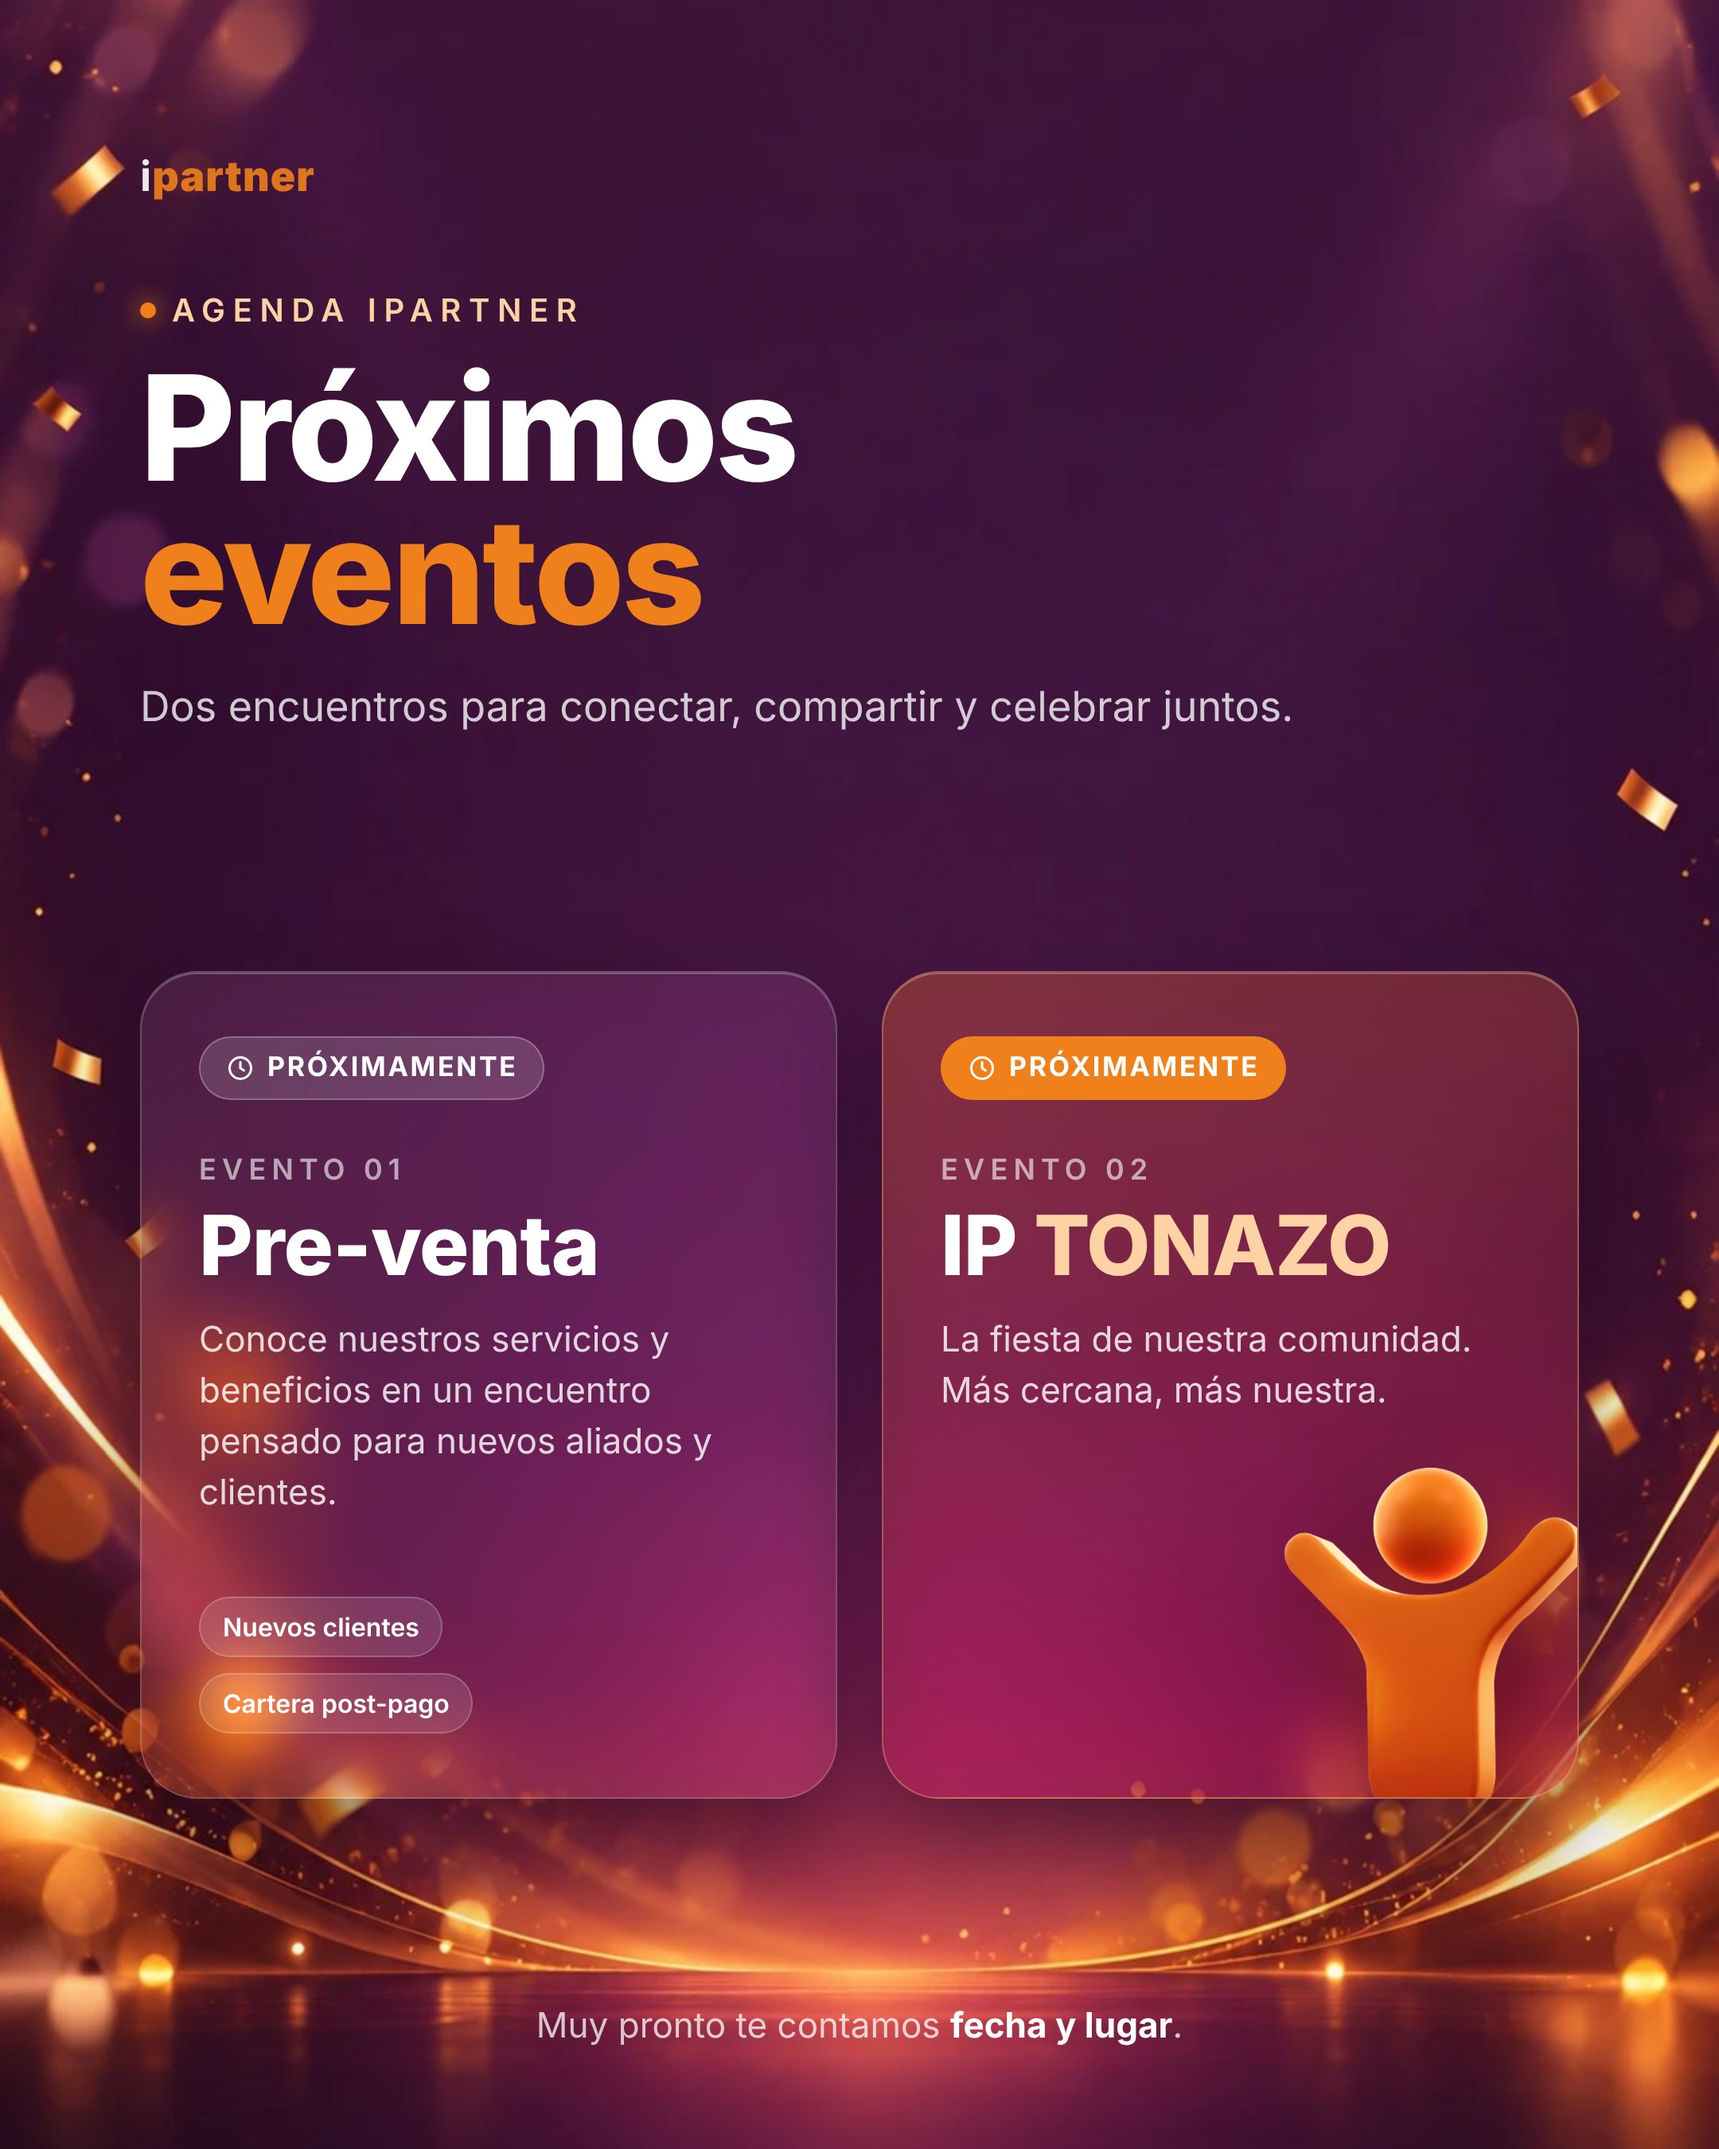
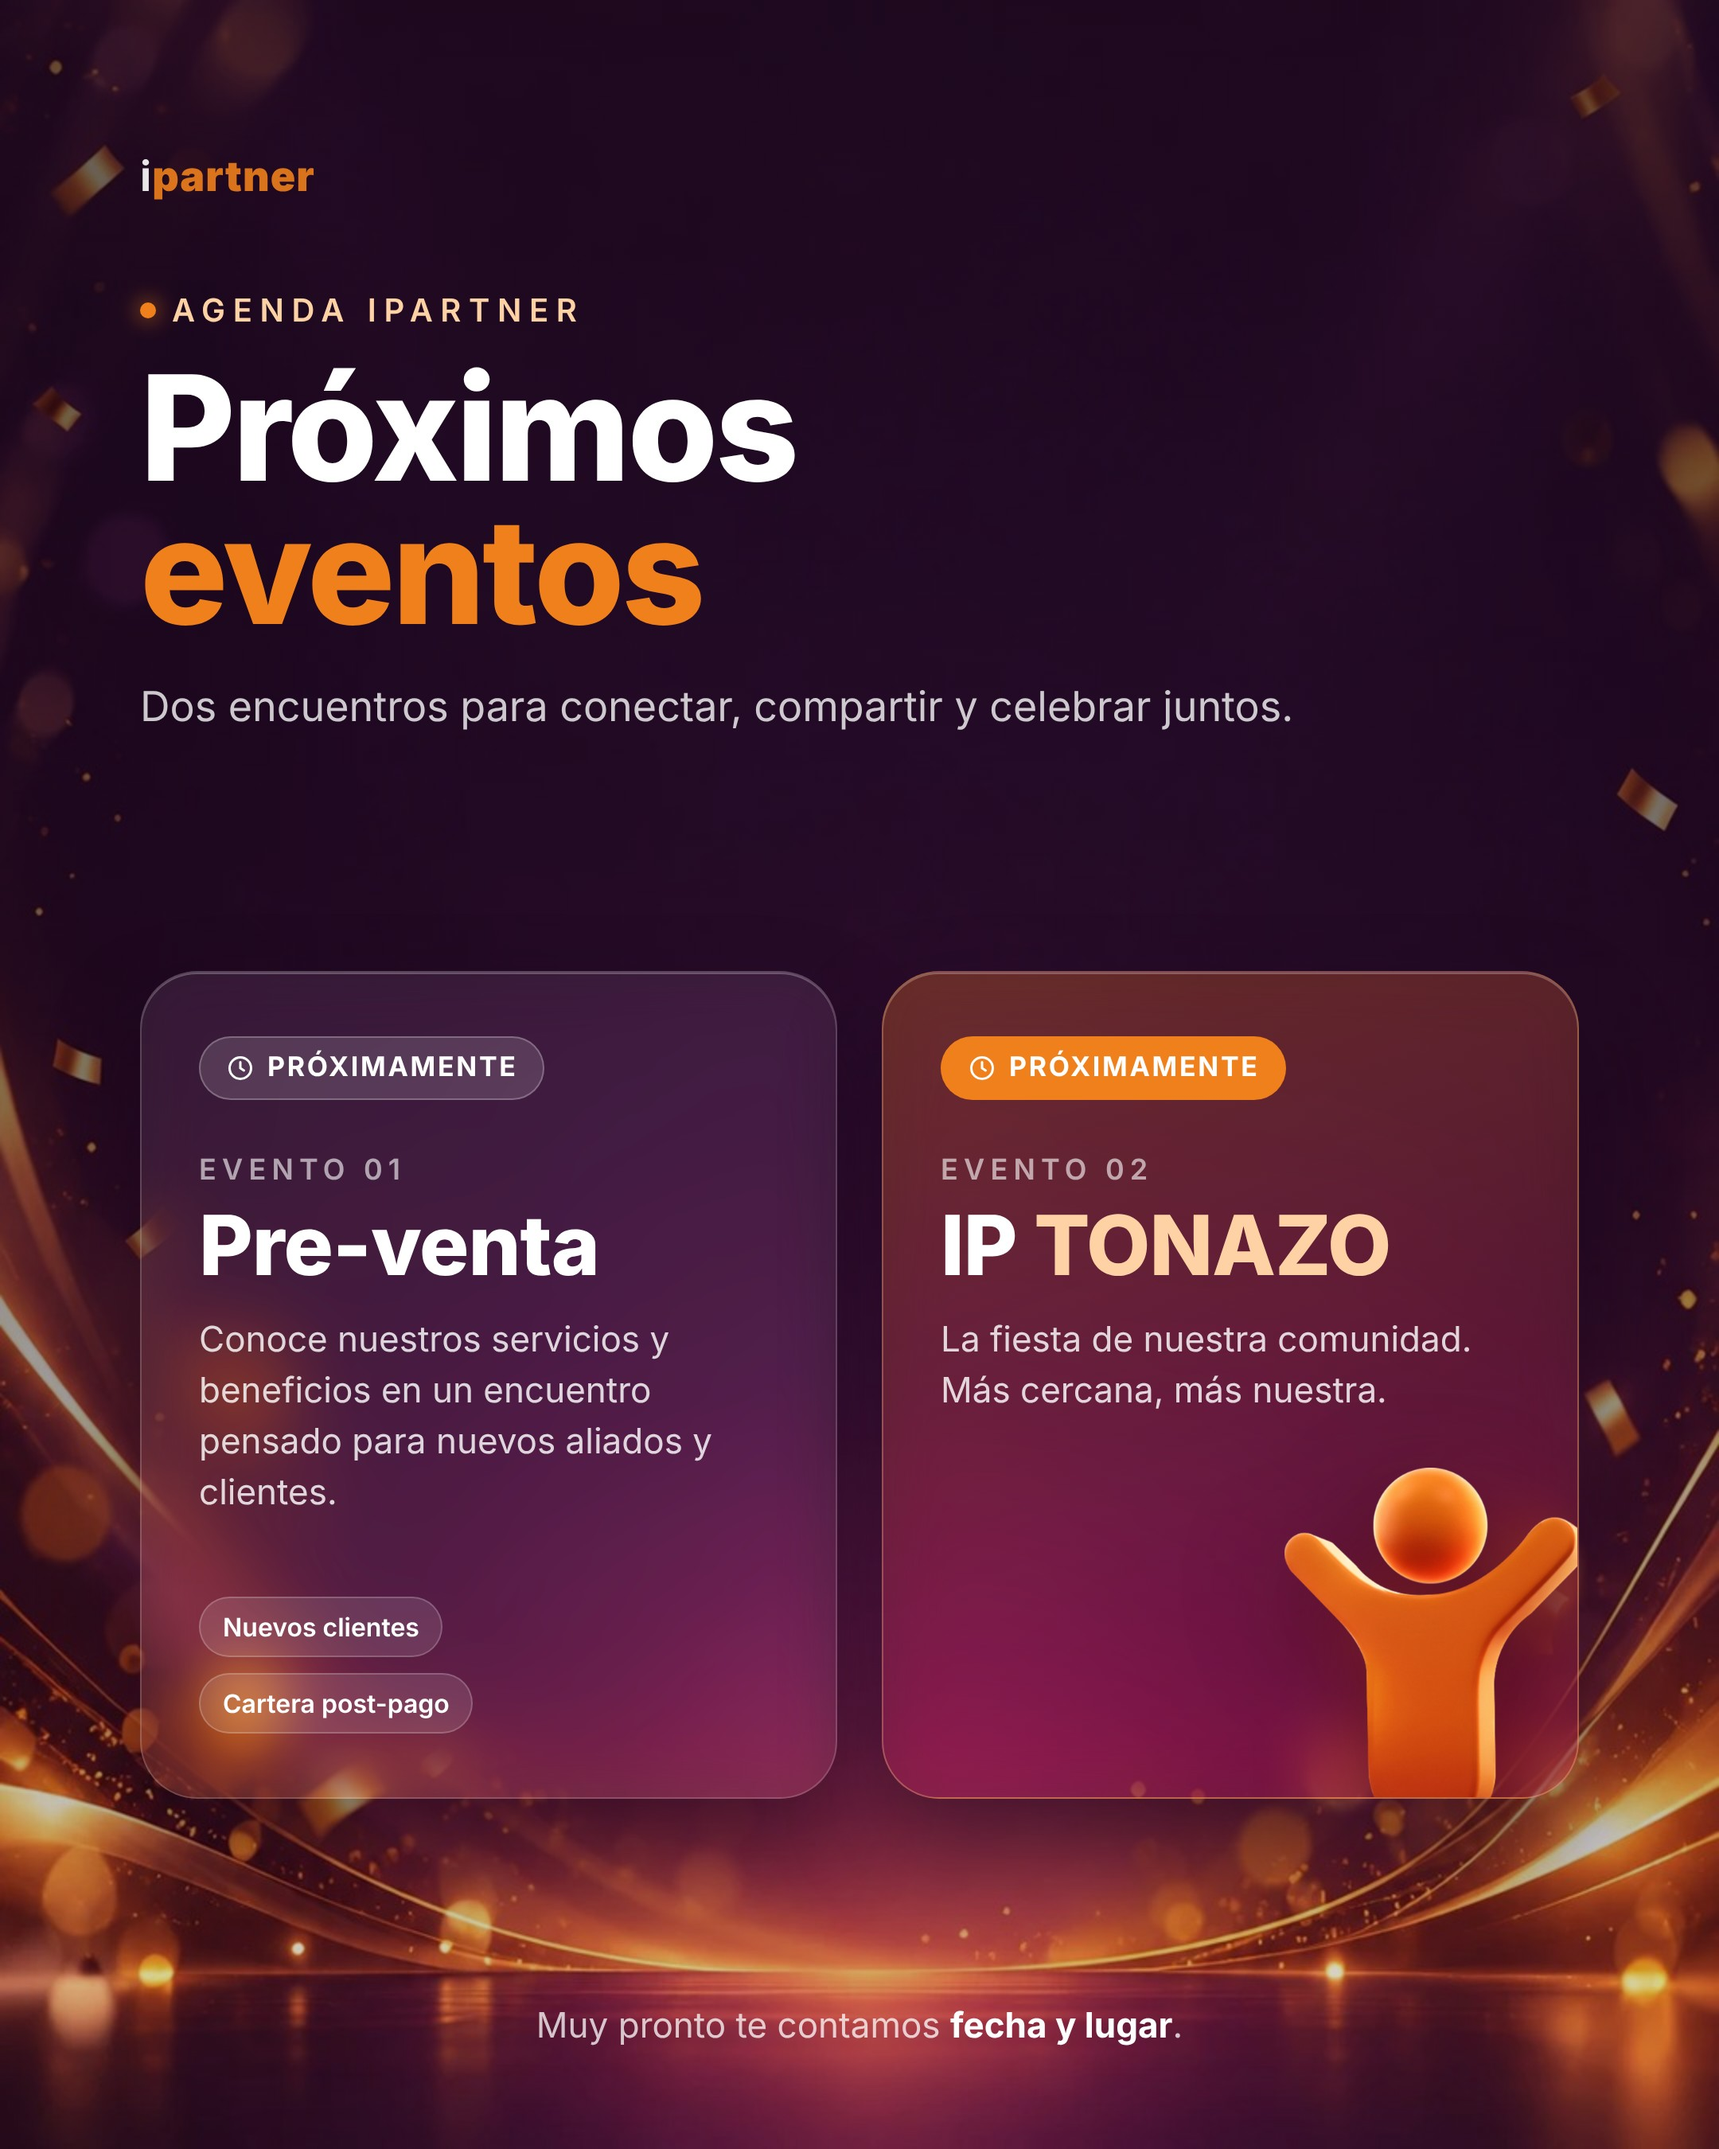
Flyer eventos: fondo morado más oscuro
Claude-Session: https://claude.ai/code/session_01KT8NTYu2Ge9wagQ7cc8Njn

diff --git a/eventos/flyer-eventos.html b/eventos/flyer-eventos.html
@@ -5,6 +5,9 @@
 *{box-sizing:border-box;margin:0;padding:0}
 html,body{width:1080px;height:1350px;overflow:hidden}
 body{font-family:Inter,"Segoe UI",system-ui,sans-serif;color:#fff;background:#2a1030 url("assets/fondo-eventos.jpg") center/cover no-repeat}
+.flyer::before{content:"";position:absolute;inset:0;z-index:0;pointer-events:none;background:linear-gradient(180deg,rgba(10,2,16,.62) 0%,rgba(14,3,20,.55) 45%,rgba(14,3,20,.30) 75%,rgba(10,2,16,.10) 100%)}
+.flyer>*{position:relative;z-index:1}
+.flyer>.tarjetas,.flyer>.pie{position:absolute}
 .flyer{position:relative;width:1080px;height:1350px;padding:96px 88px 0}
 .marca{font-size:26px;font-weight:700;letter-spacing:.02em;opacity:.9}
 .marca b{color:var(--naranja)}
